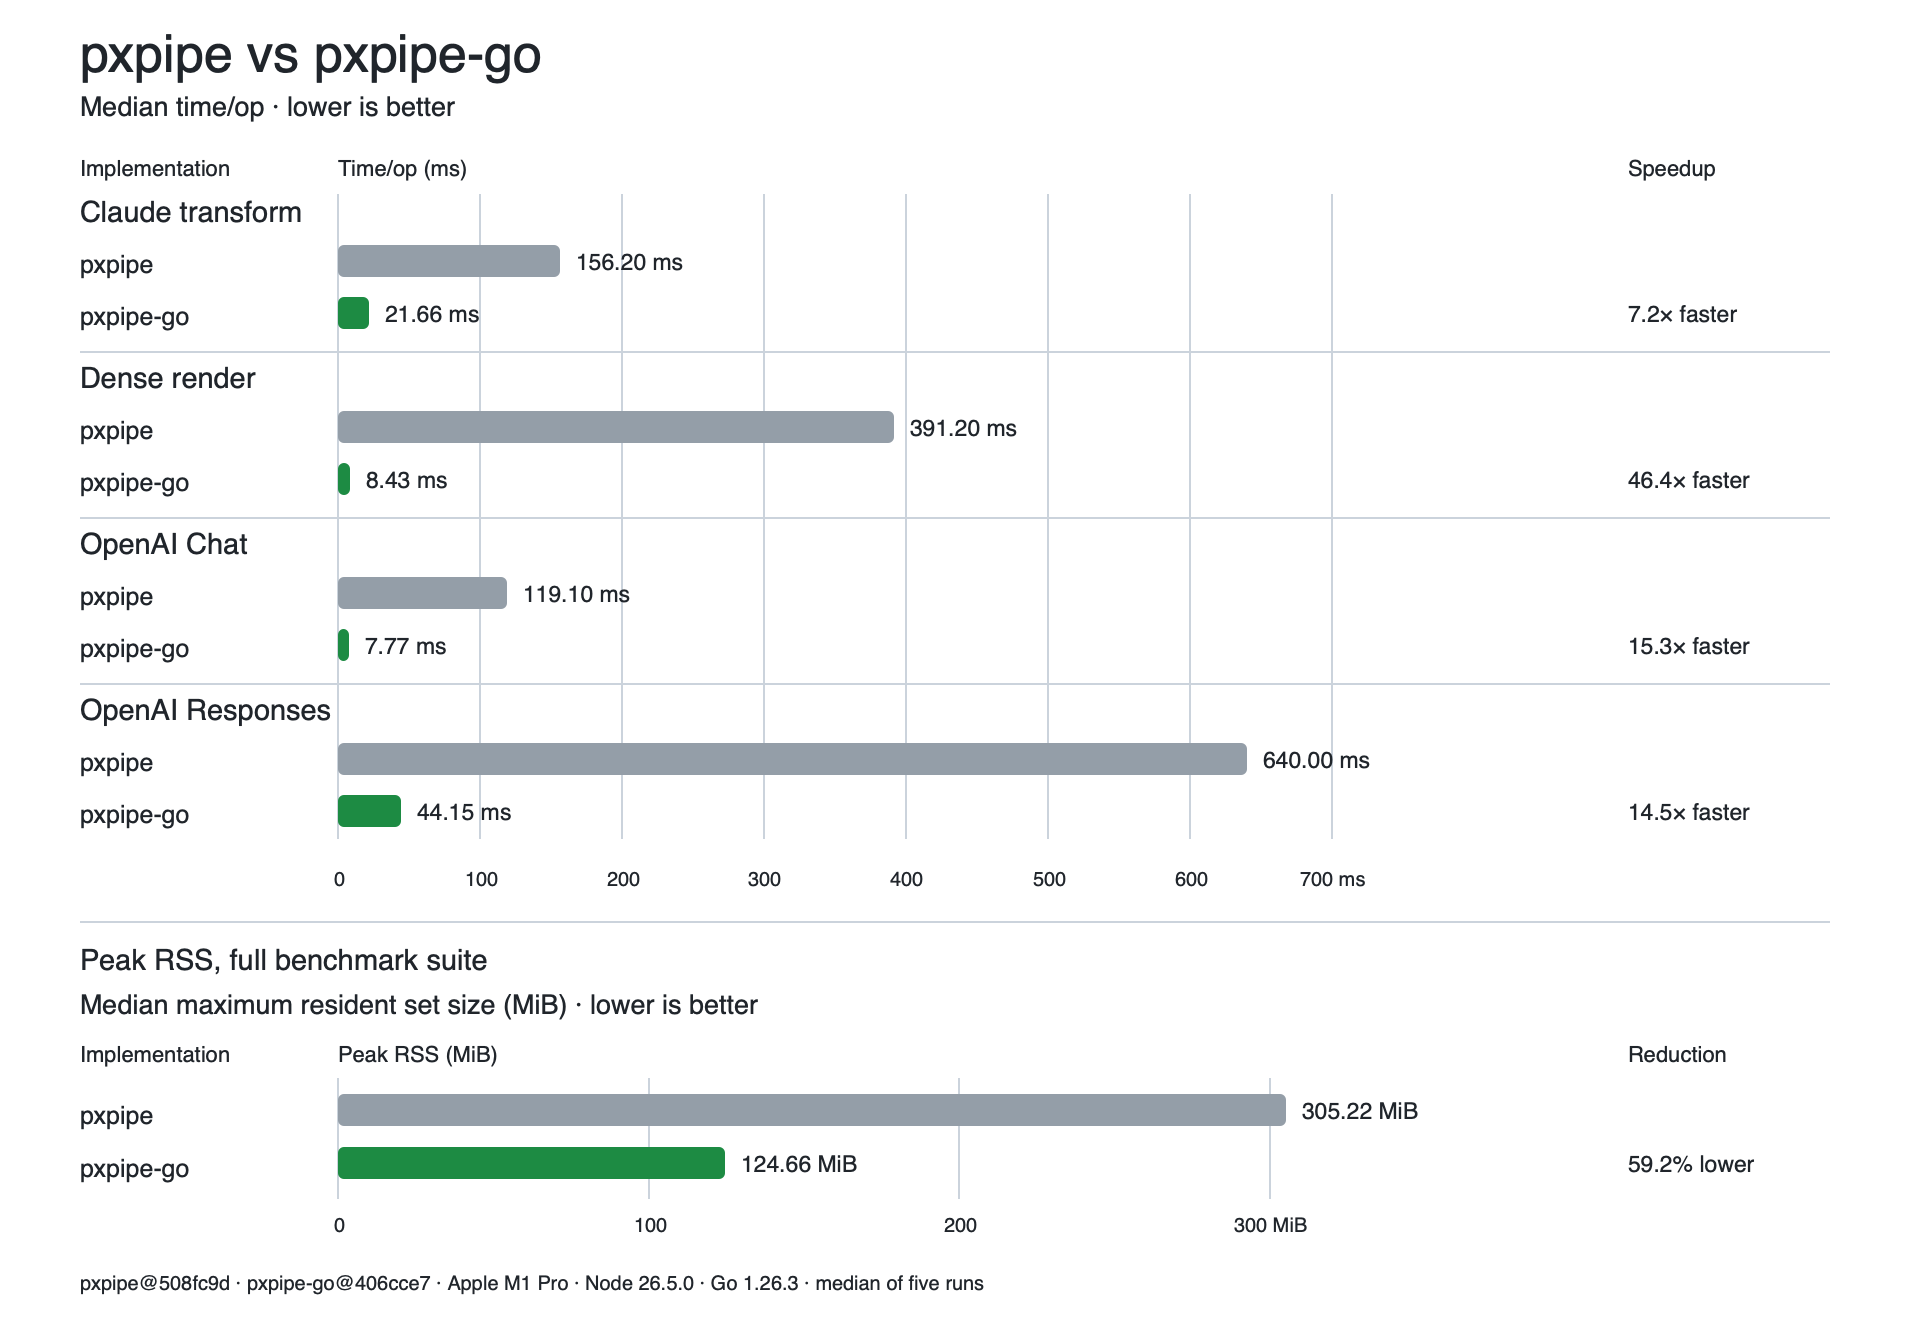
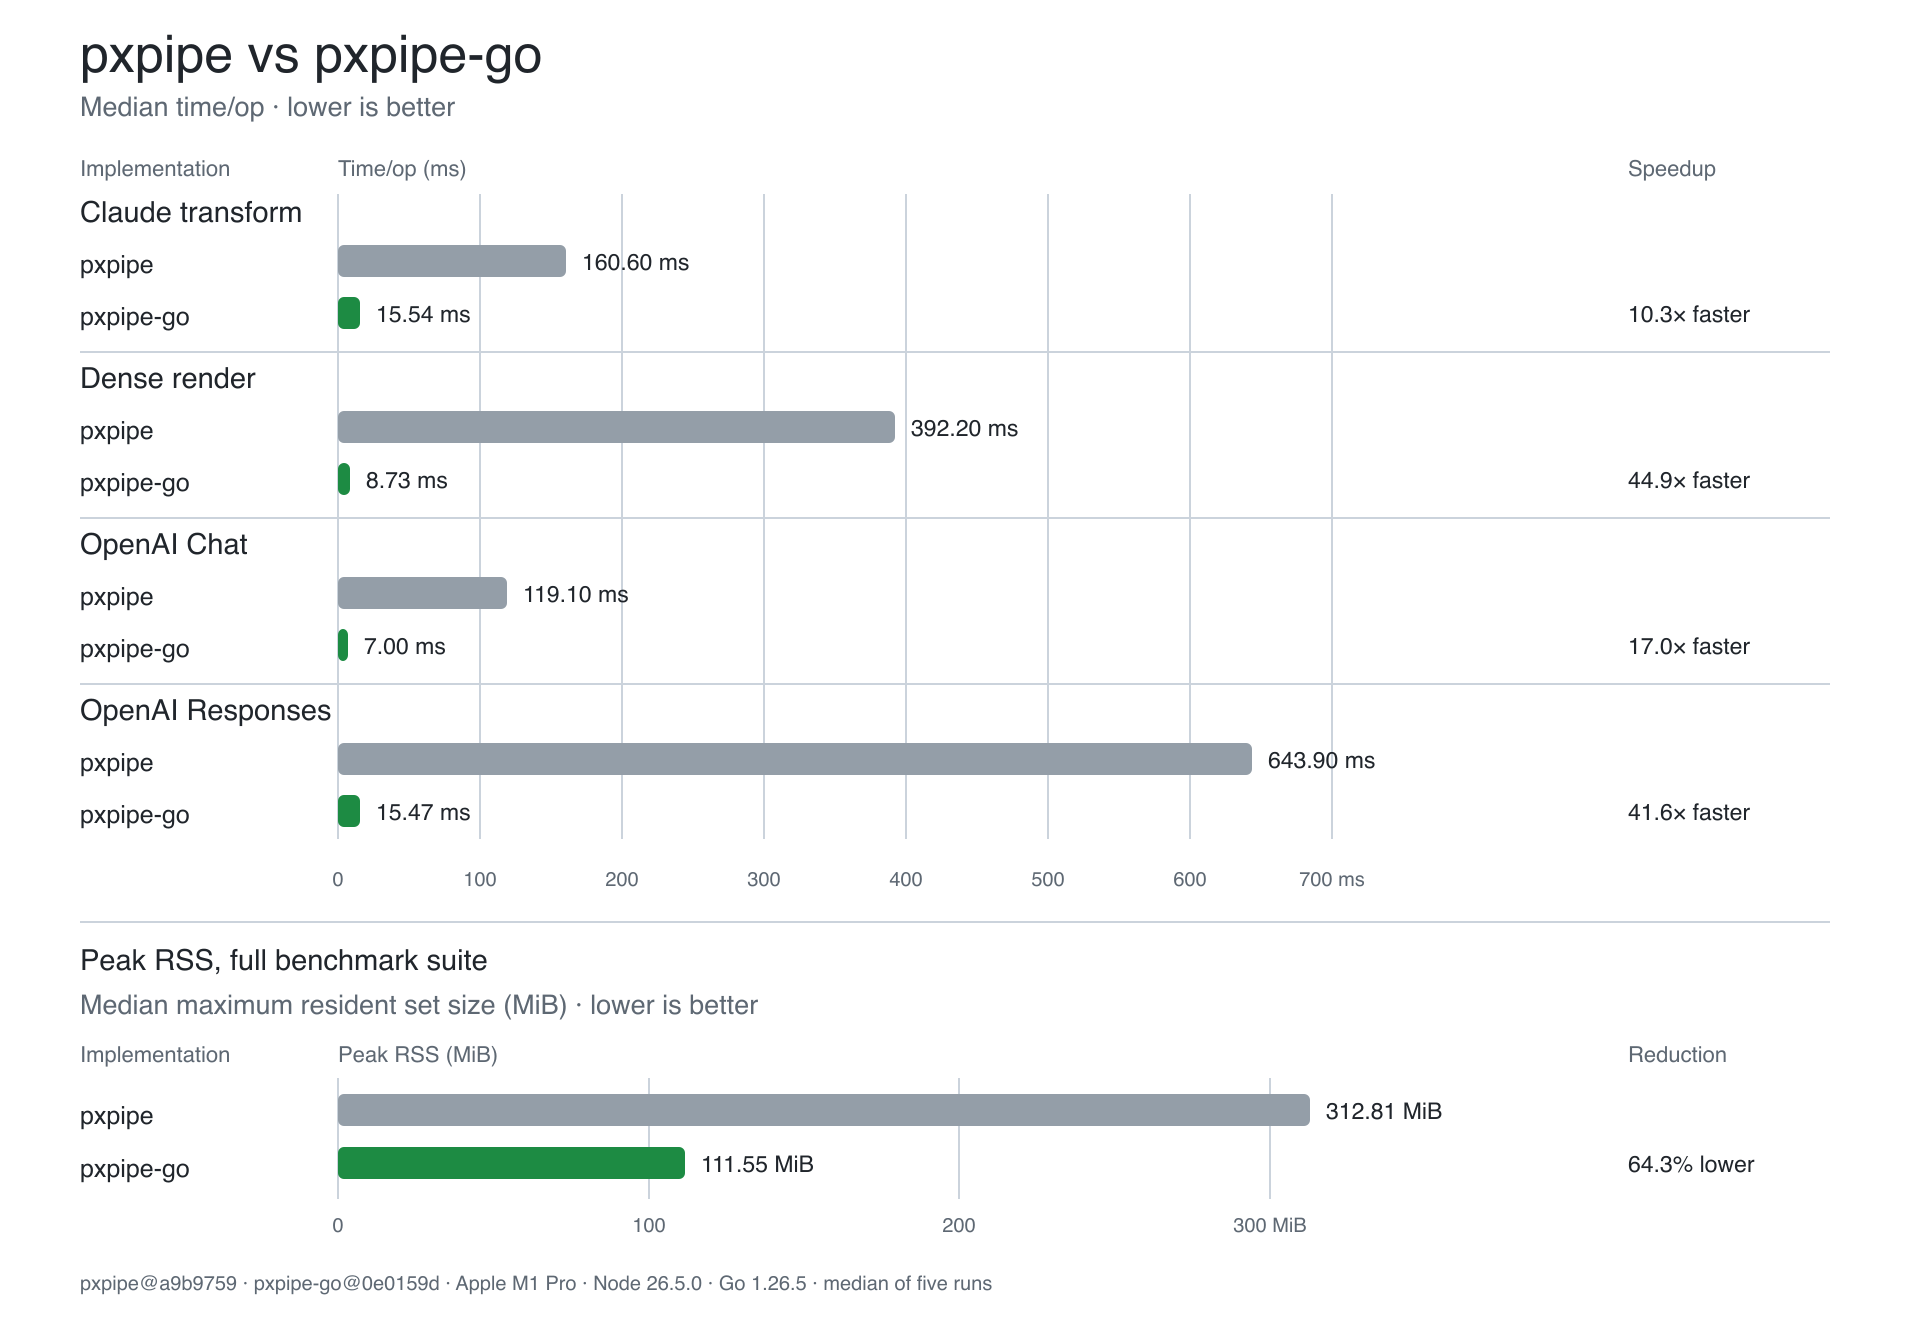
docs: refresh performance benchmarks

diff --git a/README.md b/README.md
@@ -194,36 +194,37 @@ Known deviations:
 
 ## Performance
 
-![pxpipe versus pxpipe-go benchmark: pxpipe-go is 7.2 to 46.4 times faster across four workloads and uses 59.2% less peak RSS](docs/benchmark-improvements.png)
+![pxpipe versus pxpipe-go benchmark: pxpipe-go is 10.3 to 44.9 times faster across four workloads and uses 64.3% less peak RSS](docs/benchmark-improvements.png)
 
-Measured on an Apple M1 Pro with Node 26.5.0 and Go 1.26.3. Values are medians
-of five runs with three timed iterations per run, comparing `pxpipe@508fc9d`
-with `pxpipe-go@406cce7` (2026-08-06). Actual latency varies with CPU
-architecture and request content.
+Measured on an Apple M1 Pro with Node 26.5.0 and Go 1.26.5. Values are medians
+of five runs: three timed iterations per run for pxpipe and one-second
+benchmark windows for pxpipe-go. The comparison uses `pxpipe@a9b9759` and
+`pxpipe-go@0e0159d` (2026-08-06). Actual latency varies with CPU architecture
+and request content.
 
 | benchmark | pxpipe time/op | pxpipe-go time/op | speedup |
 |---|---:|---:|---:|
-| TransformBigClaudeCode | 156.20 ms | 21.66 ms | 7.2× |
-| RenderDensePage | 391.20 ms | 8.43 ms | 46.4× |
-| TransformOpenAIChat | 119.10 ms | 7.77 ms | 15.3× |
-| TransformOpenAIResponses | 640.00 ms | 44.15 ms | 14.5× |
+| TransformBigClaudeCode | 160.60 ms | 15.54 ms | 10.3× |
+| RenderDensePage | 392.20 ms | 8.73 ms | 44.9× |
+| TransformOpenAIChat | 119.10 ms | 7.00 ms | 17.0× |
+| TransformOpenAIResponses | 643.90 ms | 15.47 ms | 41.6× |
 
 Peak RSS was measured over the full four-benchmark suite in a fresh process
 for each run:
 
 | implementation | median peak RSS | relative to pxpipe |
 |---|---:|---:|
-| pxpipe | 305.22 MiB | baseline |
-| pxpipe-go | 124.66 MiB | 59.2% lower |
+| pxpipe | 312.81 MiB | baseline |
+| pxpipe-go | 111.55 MiB | 64.3% lower |
 
 Go's `-benchmem` output reports the following allocation volume per operation:
 
 | benchmark | B/op | allocs/op |
 |---|---:|---:|
-| TransformBigClaudeCode | 4,896,602 | 3,855 |
-| RenderDensePage | 803,208 | 73 |
-| TransformOpenAIChat | 1,243,930 | 1,779 |
-| TransformOpenAIResponses | 3,436,256 | 2,351 |
+| TransformBigClaudeCode | 2,433,839 | 3,746 |
+| RenderDensePage | 801,769 | 70 |
+| TransformOpenAIChat | 1,078,375 | 1,763 |
+| TransformOpenAIResponses | 1,991,467 | 2,073 |
 
 Raw GC counts are not compared because V8 and Go use different collectors and
 event semantics. Peak RSS is the cross-runtime memory metric; `B/op` and
@@ -236,9 +237,9 @@ for benchmark_run in 1 2 3 4 5; do
   (cd pxpipe && pnpm exec tsx ../tools/bench-ts.ts)
 done
 
-go test -run '^$' \
+GOTOOLCHAIN=go1.26.5 go test -run '^$' \
   -bench '^(BenchmarkTransformBigClaudeCode|BenchmarkRenderDensePage|BenchmarkTransformOpenAIChat|BenchmarkTransformOpenAIResponses)$' \
-  -benchtime=3x -benchmem -count=5 .
+  -benchtime=1s -benchmem -count=5 .
 ```
 
 On macOS, reproduce peak RSS by running each suite in a fresh process five
@@ -252,11 +253,11 @@ for benchmark_run in 1 2 3 4 5; do
     /usr/bin/time -l pnpm exec tsx ../tools/bench-ts.ts >/dev/null)
 done
 
-go test -c -o /tmp/pxpipe-go-bench.test .
+GOTOOLCHAIN=go1.26.5 go test -c -o /tmp/pxpipe-go-bench.test .
 for benchmark_run in 1 2 3 4 5; do
   /usr/bin/time -l /tmp/pxpipe-go-bench.test -test.run '^$' \
     -test.bench '^(BenchmarkTransformBigClaudeCode|BenchmarkRenderDensePage|BenchmarkTransformOpenAIChat|BenchmarkTransformOpenAIResponses)$' \
-    -test.benchtime=3x -test.count=1 >/dev/null
+    -test.benchtime=1s -test.count=1 >/dev/null
 done
 ```
 
